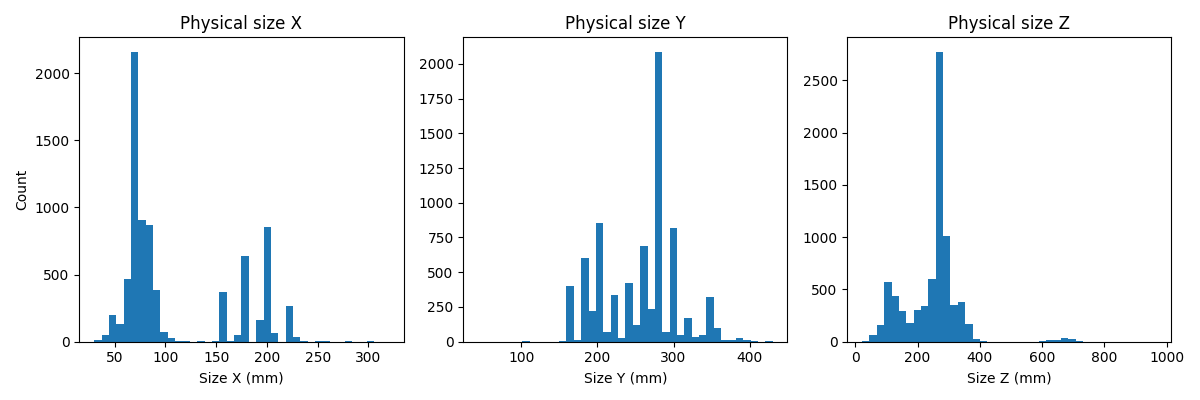
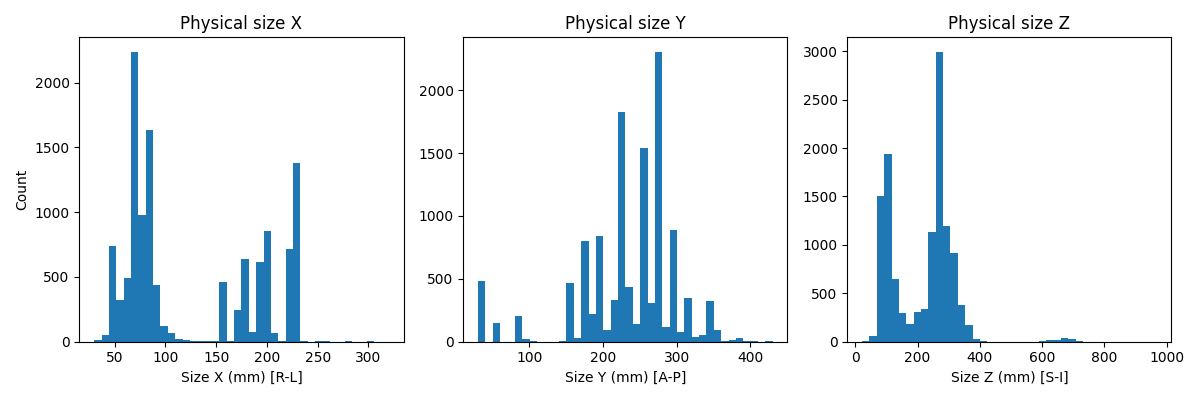
data analyses

diff --git a/data_management/data_analyses/analyze_nii_resolutions.py b/data_management/data_analyses/analyze_nii_resolutions.py
@@ -159,3 +159,107 @@ def plot_size_mm(records, out_png: str = "size_mm_hist.png"):
     plt.tight_layout()
     plt.savefig(out_png)
     plt.close()
+
+
+def plot_spacings(records, out_png: str = "spacing_hist.png"):
+    """Plot des distributions d'espacement (mm) pour X/Y/Z et sauvegarde en PNG."""
+    spacing_x = []
+    spacing_y = []
+    spacing_z = []
+    for rec in records:
+        if any(np.isnan([rec["spacing_x"], rec["spacing_y"], rec["spacing_z"]])):
+            continue
+        spacing_x.append(rec["spacing_x"])
+        spacing_y.append(rec["spacing_y"])
+        spacing_z.append(rec["spacing_z"])
+
+    if not spacing_x:
+        return
+
+    spacing_x = np.array(spacing_x)
+    spacing_y = np.array(spacing_y)
+    spacing_z = np.array(spacing_z)
+
+    min_x = float(spacing_x.min())
+    min_y = float(spacing_y.min())
+    min_z = float(spacing_z.min())
+
+    plt.figure(figsize=(12, 4))
+
+    ax = plt.subplot(1, 3, 1)
+    ax.hist(spacing_x, bins=40)
+    ax.axvline(min_x, color='r', linestyle='--', linewidth=1)
+    ax.set_xlabel("Spacing X (mm) [R-L]")
+    ax.set_ylabel("Count")
+    ax.set_title(f"Spacing X (min {min_x:.2f} mm)")
+
+    ax = plt.subplot(1, 3, 2)
+    ax.hist(spacing_y, bins=40)
+    ax.axvline(min_y, color='r', linestyle='--', linewidth=1)
+    ax.set_xlabel("Spacing Y (mm) [A-P]")
+    ax.set_title(f"Spacing Y (min {min_y:.2f} mm)")
+
+    ax = plt.subplot(1, 3, 3)
+    ax.hist(spacing_z, bins=40)
+    ax.axvline(min_z, color='r', linestyle='--', linewidth=1)
+    ax.set_xlabel("Spacing Z (mm) [S-I]")
+    ax.set_title(f"Spacing Z (min {min_z:.2f} mm)")
+
+    plt.tight_layout()
+    plt.savefig(out_png)
+    plt.close()
+
+
+def spacing_min_records(records):
+    """Retourne les fichiers ayant les espacements minimums pour X/Y/Z."""
+    minima = {}
+    for axis in ("x", "y", "z"):
+        key = f"spacing_{axis}"
+        best = None
+        for rec in records:
+            val = rec.get(key, np.nan)
+            if np.isnan(val):
+                continue
+            if best is None or val < best[0]:
+                best = (val, rec.get("filename", ""))
+        if best is not None:
+            minima[axis] = best
+    return minima
+
+
+def parse_args():
+    parser = argparse.ArgumentParser(description="Analyse des résolutions NIfTI et génération d'histogrammes")
+    parser.add_argument("folder", help="Racine contenant les fichiers NIfTI à analyser")
+    parser.add_argument("--size-plot", default="size_mm_hist.png", help="Nom du fichier PNG pour les tailles physiques")
+    parser.add_argument("--spacing-plot", default="spacing_hist.png", help="Nom du fichier PNG pour les espacements")
+    return parser.parse_args()
+
+
+def main():
+    args = parse_args()
+    files = find_nii_files(args.folder)
+    if not files:
+        print(f"Aucun fichier NIfTI trouvé sous {args.folder}", file=sys.stderr)
+        return 1
+
+    print(f"Analyse de {len(files)} fichiers...")
+    records = analyze_files(files)
+
+    plot_size_mm(records, args.size_plot)
+    plot_spacings(records, args.spacing_plot)
+
+    mins = spacing_min_records(records)
+    if mins:
+        print("Espacements minimum observés :")
+        for axis in ("x", "y", "z"):
+            if axis in mins:
+                val, fname = mins[axis]
+                print(f"  axis {axis.upper()} : {val:.4f} mm -> {fname}")
+
+    print(f"Histogrammes sauvegardés dans {args.size_plot} et {args.spacing_plot}")
+    return 0
+
+
+if __name__ == "__main__":
+    raise SystemExit(main())
+    

diff --git a/training/loss/L1SSIM.py b/training/loss/L1SSIM.py
@@ -1,0 +1,15 @@
+import torch
+import torch.nn as nn
+import pytorch_msssim
+
+class L1_SSIM_Loss(nn.Module):
+    def __init__(self, alpha=0.85):
+        super().__init__()
+        self.alpha = alpha
+        self.l1 = nn.L1Loss()
+        self.ssim = pytorch_msssim.SSIM(data_range=1.0, size_average=True)
+
+    def forward(self, pred, target):
+        l1 = self.l1(pred, target)
+        ssim = 1 - self.ssim(pred, target)
+        return self.alpha * l1 + (1-self.alpha) * ssim